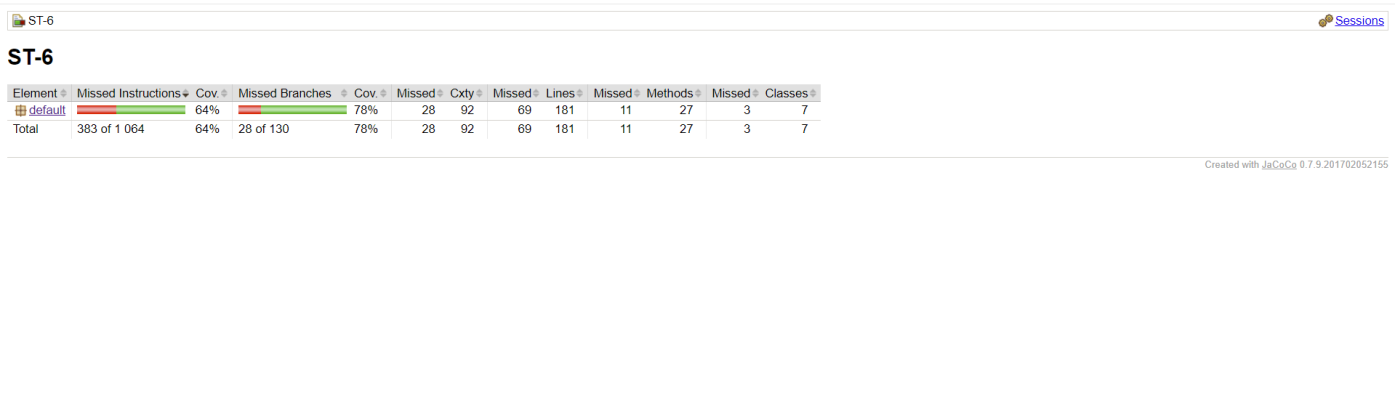
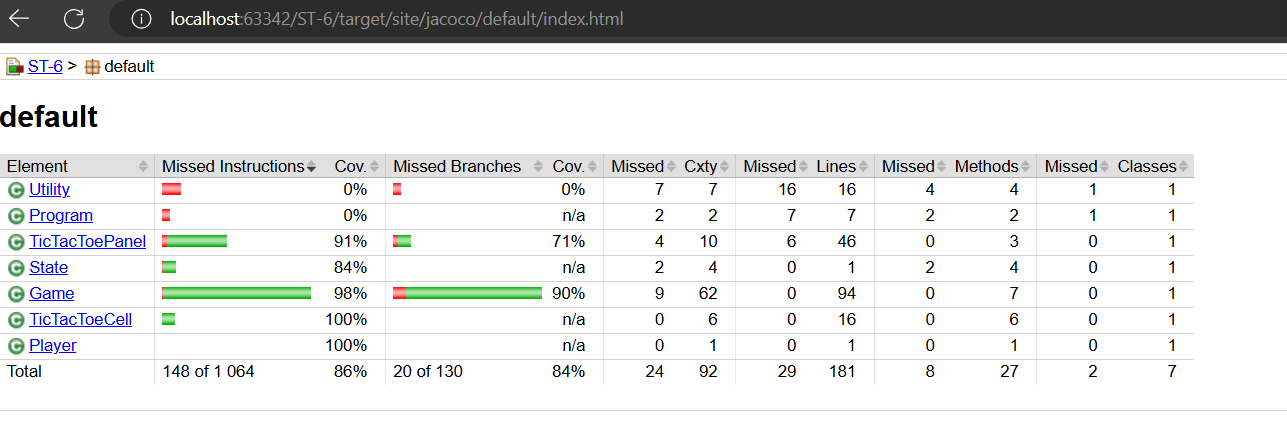
fix

diff --git a/src/test/java/TicTacTests.java b/src/test/java/TicTacTests.java
@@ -1,0 +1,119 @@
+import static org.junit.jupiter.api.Assertions.*;
+import org.junit.jupiter.api.BeforeEach;
+import org.junit.jupiter.api.Test;
+
+import javax.swing.*;
+import java.awt.*;
+import java.lang.reflect.Field;
+import java.util.ArrayList;
+
+public class TicTacTests {
+    private Game game;
+
+    @BeforeEach
+    void setUp() {
+        game = new Game();
+    }
+
+    @Test
+    void testTicTacInitialState() {
+        assertEquals(State.PLAYING, game.state);
+        assertEquals('X', game.player1.symbol);
+        assertEquals('O', game.player2.symbol);
+        assertEquals(9, game.board.length);
+        for (char c : game.board) {
+            assertEquals(' ', c);
+        }
+    }
+
+    @Test
+    void testTicTacCheckState() {
+        char[] board = {
+                'X', 'X', 'X',
+                ' ', 'O', 'O',
+                ' ', ' ', ' '
+        };
+        game.symbol = 'X';
+        assertEquals(State.XWIN, game.checkState(board));
+
+        board[0] = 'O';
+        board[1] = 'O';
+        board[2] = 'O';
+        game.symbol = 'O';
+        assertEquals(State.OWIN, game.checkState(board));
+
+        board[0] = 'X';
+        board[1] = 'O';
+        board[2] = 'X';
+        board[3] = 'X';
+        board[4] = 'O';
+        board[5] = 'X';
+        board[6] = 'O';
+        board[7] = 'X';
+        board[8] = 'O';
+        assertEquals(State.DRAW, game.checkState(board));
+
+        board[0] = 'X';
+        board[1] = 'X';
+        board[2] = ' ';
+        assertEquals(State.PLAYING, game.checkState(board));
+    }
+
+    @Test
+    void testTicTacGenerateMoves() {
+        char[] board = {
+                'X', 'O', 'X',
+                ' ', 'O', 'O',
+                ' ', 'X', ' '
+        };
+        ArrayList<Integer> moveList = new ArrayList<>();
+        game.generateMoves(board, moveList);
+        assertEquals(3, moveList.size());
+        assertTrue(moveList.contains(3));
+        assertTrue(moveList.contains(6));
+        assertTrue(moveList.contains(8));
+    }
+
+    @Test
+    void testTicTacMaxMove() {
+        char[] board = {
+                'X', 'O', 'X',
+                ' ', 'O', ' ',
+                ' ', 'X', ' '
+        };
+        int val = game.MaxMove(board, game.player2);
+        assertTrue(val > -Game.INF);
+    }
+
+    @Test
+    void testTicTacPlayerSwitch() {
+        game.cplayer = game.player1;
+        assertEquals('X', game.cplayer.symbol);
+        game.cplayer = game.player2;
+        assertEquals('O', game.cplayer.symbol);
+    }
+
+    @Test
+    void testTicTacWinningMove() {
+        char[] board = {
+                'X', 'X', ' ',
+                'O', 'O', ' ',
+                ' ', ' ', ' '
+        };
+        game.board = board;
+        game.player1.move = 2;
+        game.board[2] = game.player1.symbol;
+        assertNotEquals(State.XWIN, game.checkState(game.board));
+    }
+
+    @Test
+    void testTicTacDrawingMove() {
+        char[] board = {
+                'X', 'O', 'X',
+                'X', 'O', 'O',
+                'O', 'X', 'X'
+        };
+        game.board = board;
+        assertEquals(State.DRAW, game.checkState(game.board));
+    }
+}

diff --git a/src/test/java/TicTacToeCellTests.java b/src/test/java/TicTacToeCellTests.java
@@ -1,43 +1,43 @@
-import org.junit.jupiter.api.BeforeEach;
-import org.junit.jupiter.api.Test;
 import static org.junit.jupiter.api.Assertions.*;
+import org.junit.jupiter.api.Test;
+
+import java.awt.*;
 
 public class TicTacToeCellTests {
 
-    private TicTacToeCell cell;
-
-    @BeforeEach
-    public void setUp() {
-        cell = new TicTacToeCell(0, 0, 0);
-    }
-
     @Test
-    public void testInitialValues() {
+    void testTicTacToeCellInitialState() {
+        TicTacToeCell cell = new TicTacToeCell(0, 0, 0);
         assertEquals(' ', cell.getMarker());
-        assertEquals(0, cell.getNum());
         assertEquals(0, cell.getRow());
         assertEquals(0, cell.getCol());
+        assertEquals(0, cell.getNum());
+        assertEquals(" ", cell.getText());
     }
 
     @Test
-    public void testSetMarker() {
+    void testTicTacToeCellSetMarker() {
+        TicTacToeCell cell = new TicTacToeCell(0, 0, 0);
         cell.setMarker("X");
         assertEquals('X', cell.getMarker());
+        assertEquals("X", cell.getText());
         assertFalse(cell.isEnabled());
     }
 
     @Test
-    public void testGetRow() {
-        assertEquals(0, cell.getRow());
+    void testTicTacToeCellSetMarkerO() {
+        TicTacToeCell cell = new TicTacToeCell(1, 1, 1);
+        cell.setMarker("O");
+        assertEquals('O', cell.getMarker());
+        assertEquals("O", cell.getText());
+        assertFalse(cell.isEnabled());
     }
 
     @Test
-    public void testGetCol() {
-        assertEquals(0, cell.getCol());
-    }
-
-    @Test
-    public void testGetNum() {
-        assertEquals(0, cell.getNum());
+    void testTicTacToeCellGetters() {
+        TicTacToeCell cell = new TicTacToeCell(2, 2, 1);
+        assertEquals(2, cell.getNum());
+        assertEquals(1, cell.getRow());
+        assertEquals(2, cell.getCol());
     }
 }

diff --git a/src/main/java/Program.java b/src/main/java/Program.java
@@ -12,7 +12,6 @@ import java.io.IOException;
 
 enum State { PLAYING, OWIN, XWIN, DRAW };
 
-
 class Player {
   public char symbol;
   public int move;
@@ -29,7 +28,6 @@ class Game {
     public static final int INF = 100;
     public int q;
     public char[] board;
-
 
     public Game() {
       player1=new Player();
@@ -312,7 +310,6 @@ class TicTacToePanel extends JPanel implements ActionListener {
 
       game.state=game.checkState(game.board);
 
-
       if(game.state==State.XWIN) {
         JOptionPane.showMessageDialog(null,"Выиграли крестики","Результат", JOptionPane.WARNING_MESSAGE);
         System.exit(0);
@@ -325,11 +322,7 @@ class TicTacToePanel extends JPanel implements ActionListener {
       else if(game.state==State.DRAW) {
         JOptionPane.showMessageDialog(null,"Ничья","Результат", JOptionPane.WARNING_MESSAGE);
         System.exit(0);
-      } 
-
-
-
-
+      }
    }
 }
 
